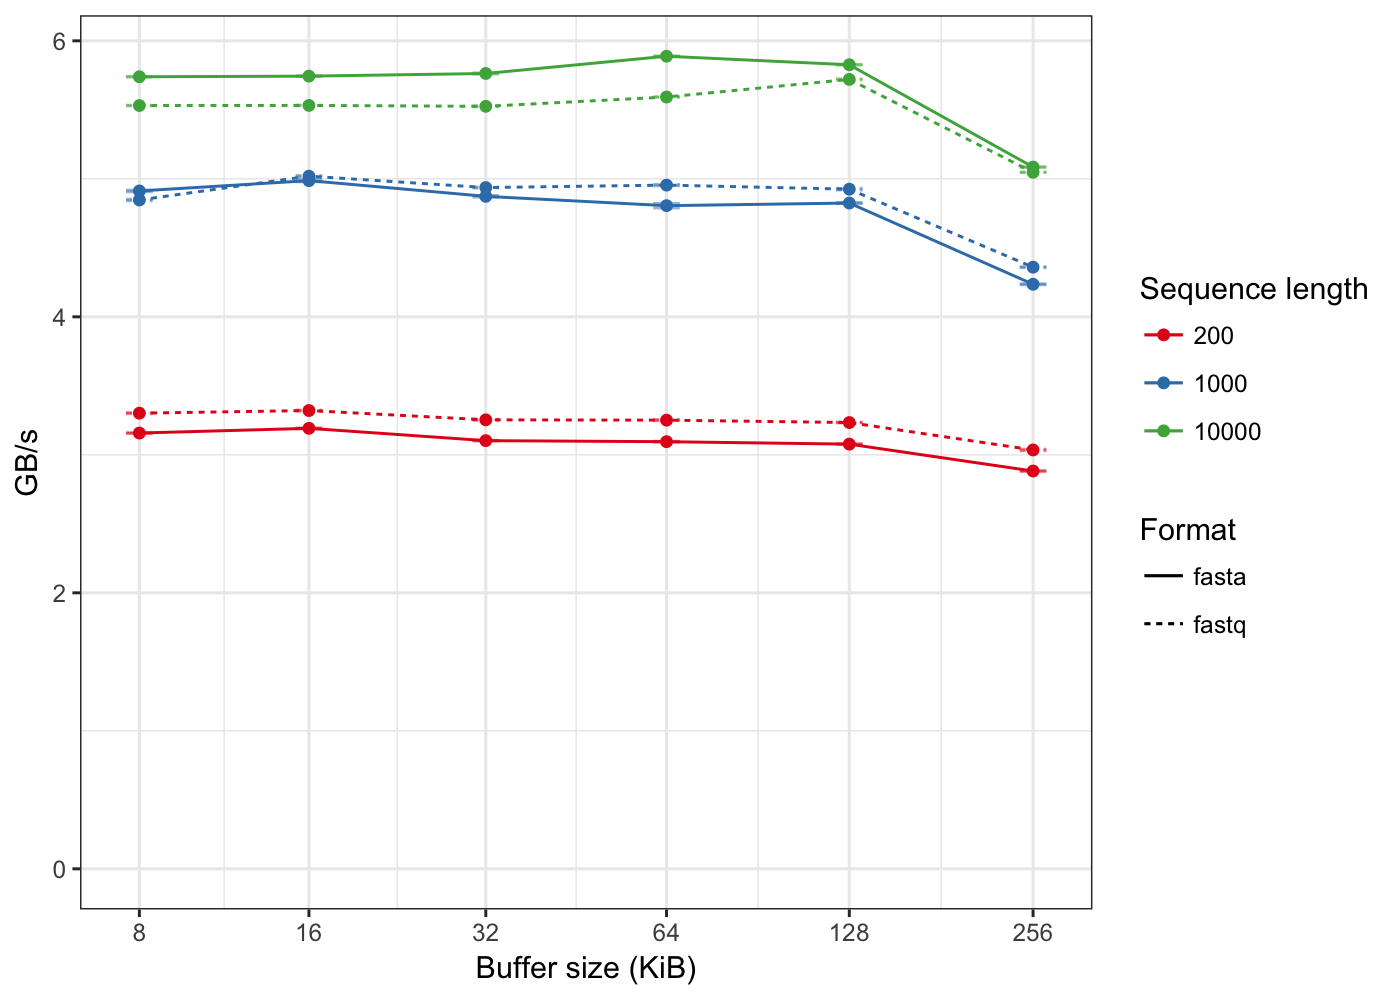
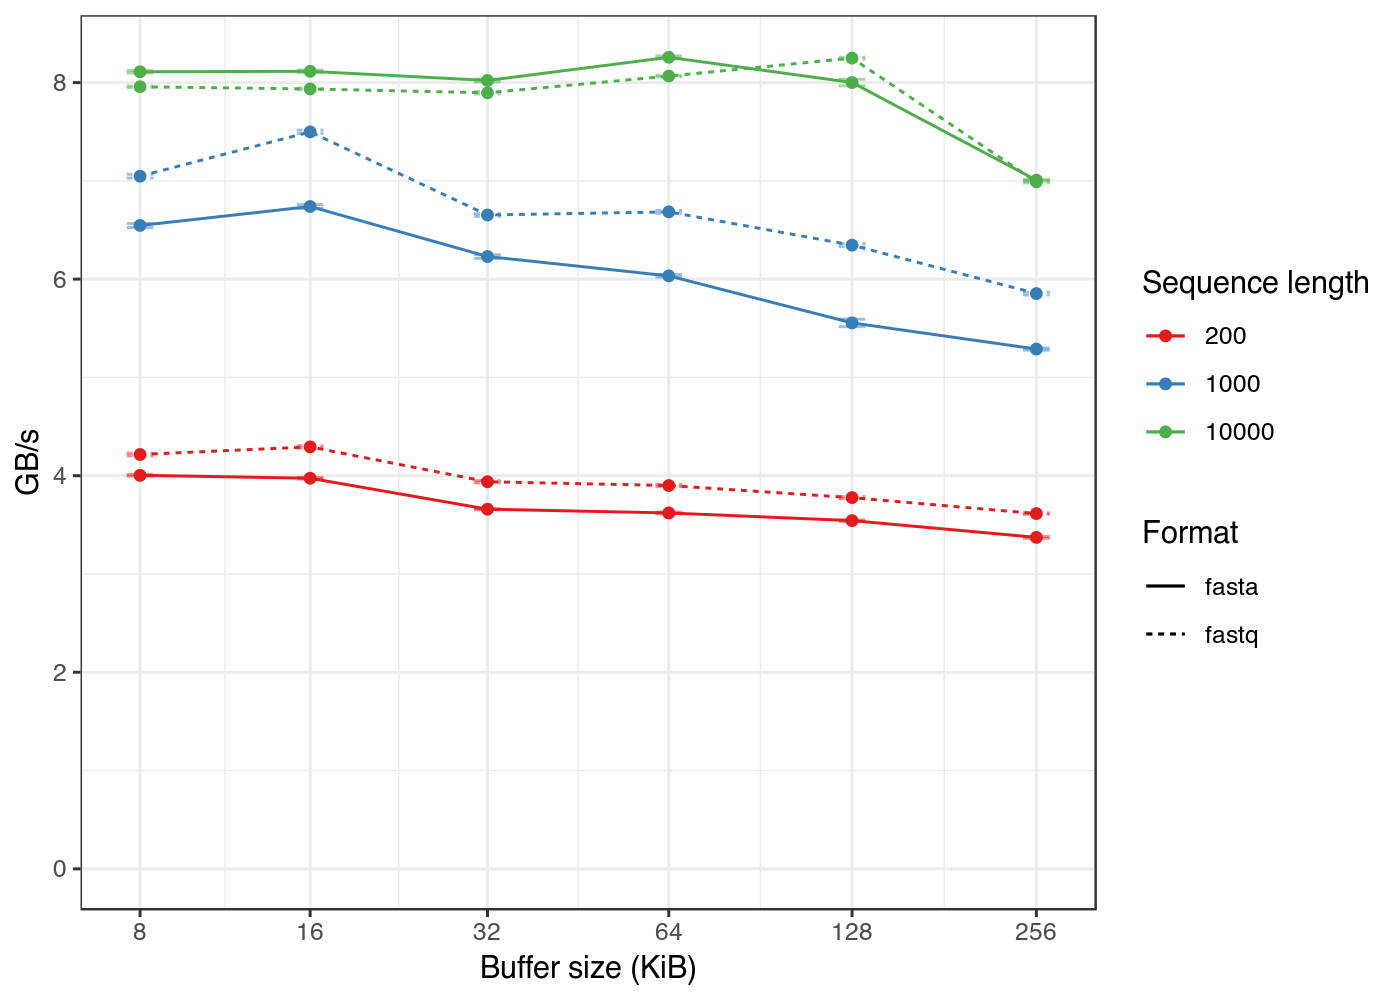
Run new benchmark

diff --git a/README.md b/README.md
@@ -76,7 +76,8 @@ with lengths normally distributed around 500 bp and loaded into memory.
 The parsers from this crate (*seq_io*) are compared with [fastq-rs](https://github.com/aseyboldt/fastq-rs) (*fastq_rs*)
 and [Rust-Bio](https://rust-bio.github.io/) (*bio*).
 The bars represent the throughput in GB/s (+/- standard error of the mean).
-Run on a Mac Pro (Mid 2010, 2.8 GHz Quad-Core Intel Xeon, OS X 10.13) using Rust 1.23 nightly
+Run on a Thinkpad X1 Carbon (i7-5500U) with a fixed frequency of 2.3 GHz
+using Rust 1.31 nightly
 
 ![benchmark results](bench_results/reader_comparison_simple.png)
 
